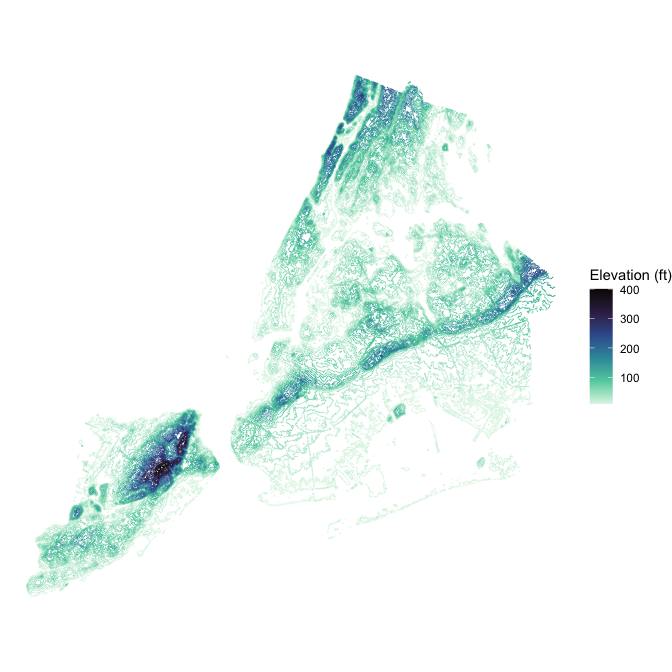
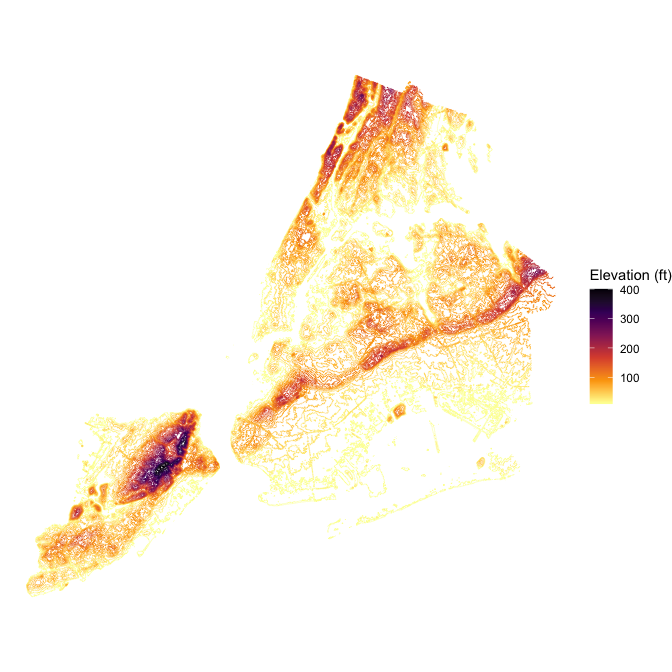
Use inferno

Changed region(s): [[0.0312, 0.0938, 0.8438, 0.9062], [0.875, 0.4375, 0.9375, 0.625], [0.625, 0.7188, 0.6875, 0.75]]

diff --git a/README.md b/README.md
@@ -5,6 +5,7 @@
 
 <!-- badges: start -->
 
+[![R-CMD-check](https://github.com/kjhealy/nycterrain/actions/workflows/R-CMD-check.yaml/badge.svg)](https://github.com/kjhealy/nycterrain/actions/workflows/R-CMD-check.yaml)
 <!-- badges: end -->
 
 Bare-earth digital elevation model for New York City, derived from the
@@ -87,7 +88,7 @@ nyc_terrain_contours_sf
 ``` r
 ggplot(nyc_terrain_contours_sf) +
   geom_sf(aes(color = elev_ft), linewidth = 0.15) +
-  scale_color_viridis_c(option = "G", direction = -1) +
+  scale_color_viridis_c(option = "inferno", direction = -1) +
   labs(color = "Elevation (ft)") +
   theme_void()
 ```
